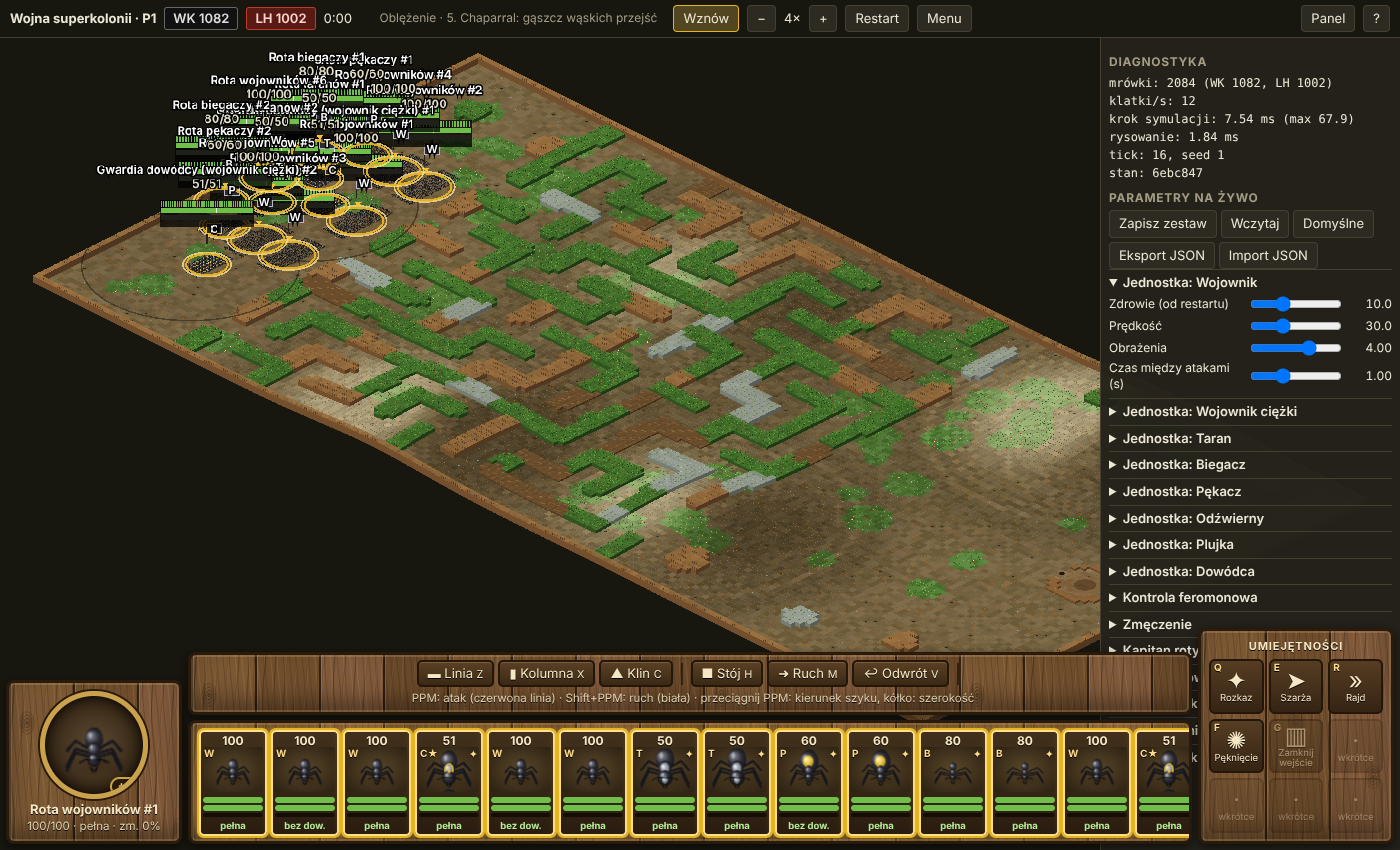
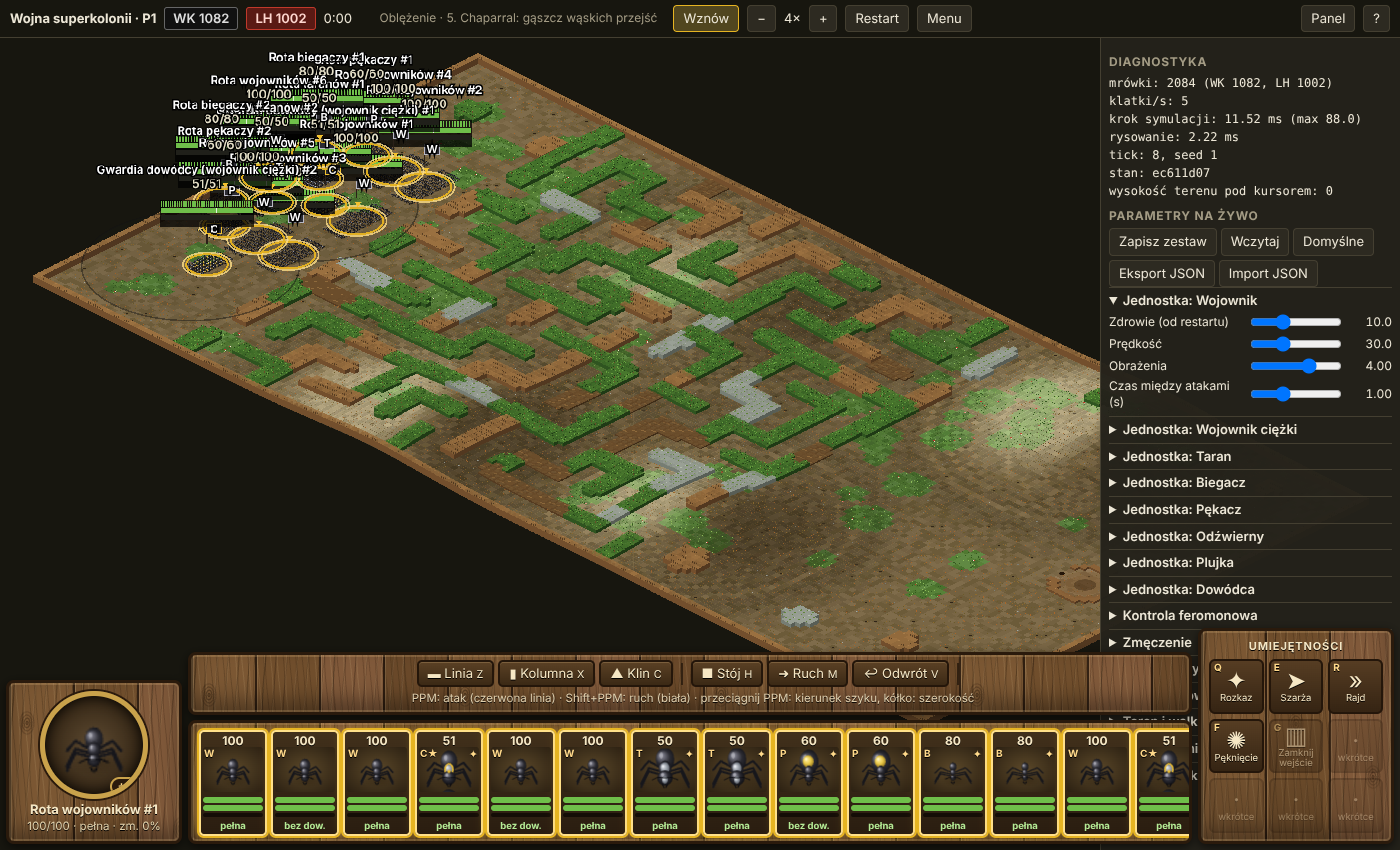
Etap 4: wysokość terenu pod kursorem w diagnostyce, zrzut szczytu, współrzędne wzgórz
Claude-Session: https://claude.ai/code/session_015bWVywXDmmptfndPZFffbj

Changed region(s): [[0.7986, 0.1835, 1.0, 0.7647], [0.8907, 0.1224, 0.9829, 0.1529], [0.86, 0.1529, 0.8907, 0.1835]]

diff --git a/prototypy/p1-bitwa.html b/prototypy/p1-bitwa.html
@@ -2238,6 +2238,7 @@ if (typeof module !== 'undefined') module.exports = Sim;
   view.addEventListener('pointermove', (e) => {
     const r = view.getBoundingClientRect();
     if (box.on) { box.x1 = e.clientX - r.left; box.y1 = e.clientY - r.top; }
+    if (S.sim && S.sim.hills) { const [wx, wy] = toWorld(e.clientX - r.left, e.clientY - r.top); S.cursorH = S.sim.heightAt(Math.max(0, wx), Math.max(0, wy)); }
     if (drag.on) { const sx = e.clientX - r.left, sy = e.clientY - r.top; if (Math.hypot(sx - drag.sx, sy - drag.sy) > 14) { const [wx, wy] = toWorld(sx, sy); drag.active = true; drag.face = Math.atan2(wy - drag.wy, wx - drag.wx); } }
     if (S.sim && S.started) { // najechanie na rotę pokazuje jej panel informacji
       const [cx, cy] = toContainer(e.clientX - r.left, e.clientY - r.top), sim = S.sim, rr = 12 / cam.z + 4; let best = -1, bd = rr * rr;
@@ -2662,7 +2663,7 @@ if (typeof module !== 'undefined') module.exports = Sim;
       const t1 = performance.now(); render(); S.renderMs = S.renderMs * 0.9 + (performance.now() - t1) * 0.1;
       hudT += dt; diagT += dt;
       if (hudT > 0.2) { hudT = 0; pumpEvents(); const a = S.sim.count_alive(); $('cntWK').textContent = 'WK ' + a[0]; $('cntLH').textContent = 'LH ' + a[1]; $('clock').textContent = fmt(S.sim.tick / 20); updateCards(); }
-      if (diagT > 0.5) { diagT = 0; const a = S.sim.count_alive(); $('diag').textContent = 'mrówki: ' + (a[0] + a[1]) + ' (WK ' + a[0] + ', LH ' + a[1] + ')\nklatki/s: ' + app.ticker.FPS.toFixed(0) + '\nkrok symulacji: ' + S.stepMs.toFixed(2) + ' ms (max ' + S.stepMax.toFixed(1) + ')\nrysowanie: ' + S.renderMs.toFixed(2) + ' ms\ntick: ' + S.sim.tick + ', seed ' + S.seed + '\nstan: ' + S.sim.hash(); }
+      if (diagT > 0.5) { diagT = 0; const a = S.sim.count_alive(); $('diag').textContent = 'mrówki: ' + (a[0] + a[1]) + ' (WK ' + a[0] + ', LH ' + a[1] + ')\nklatki/s: ' + app.ticker.FPS.toFixed(0) + '\nkrok symulacji: ' + S.stepMs.toFixed(2) + ' ms (max ' + S.stepMax.toFixed(1) + ')\nrysowanie: ' + S.renderMs.toFixed(2) + ' ms\ntick: ' + S.sim.tick + ', seed ' + S.seed + '\nstan: ' + S.sim.hash() + (S.sim.hills ? '\nwysokość terenu pod kursorem: ' + (S.cursorH || 0).toFixed(0) : ''); }
     }
   });
 

diff --git a/docs/wnioski-p1.md b/docs/wnioski-p1.md
@@ -102,6 +102,10 @@ Co jest (szczegóły i liczby w `projekt-bitwy.md`, decyzje 56-62, plan w `etap4
 - **Cios z tyłu** x1,5, **z boku** x1,25, z przodu x1 (zmierzone: x1,51 i x1,25).
 - Krok symulacji przy ok. 4500 mrówek na mapie ze wzgórzami i mgłą: mediana 19 ms, p99 55 ms (budżet 50 ms; czas piaskownicy).
 
+Gdzie szukać wzgórz (ziarno 1; szczyty wysokości x, y): mapa 2: (1464,168) 35, (888,312) 23, (1240,920) 24; mapa 4: (1976,184) 37, (1016,1208) 37, (1080,344) 23; mapa 5: (2328,184) 37, (1144,1304) 37; Przeprawa: (2312,328) 50, (1288,536) 25, (2328,1592) 26. Wzgórza są **subtelne wizualnie** (jaśniejsze i ciemniejsze plamy, wygięta ramka mapy, przesunięcie mrówek w pionie); zrzut `wyniki/p1-wzgorza-szczyt.png` to mapa 2 przy szczycie (1240,920). Na pasku diagnostyki jest „wysokość terenu pod kursorem”, co pozwala je znaleźć.
+
+Przeprawa, mrówki rot z kotwicą za potokiem, które nadal są przed nim (liczba/rot za potokiem; nie jest to ściśle „utknięcie”, liczy też spóźnionych i walczących), ziarna 1 i 2, funkcje etapu 4 włączone / wyłączone: t=80: 35 i 37 / 5 i 1; t=120: 107 i 81 / 57 i 55; t=160: 115 i 103 / 118 i 102. Po 160 s poziom jest taki sam, więc zator przy wodzie jest wcześniejszy niż etap 4, ale etap 4 (wzgórza, widoczność) opóźnia przeprawę o kilkadziesiąt sekund.
+
 Wpływ na bitwy AI przeciw AI (wykonane: `node tests/p1-etap4.js --seeds 4`, Bitwa na mapie 2, budżet Średni, `wyniki/p1-etap4-wplyw.json`): wygrane WK 2/4 przy wszystkim wyłączonym, 2/4 z samą elewacją, 1/4 z samą widocznością, 3/4 z samym kierunkiem ciosu, 2/4 ze wszystkim; różnice są w granicach szumu 4 ziaren. Strome tory kwasu (łuk wyższy od 22 jednostek) w ogóle nie wystąpiły w tych bitwach. Wniosek: mechaniki działają (testy jednostkowe), ale obecne AI nie wykorzystuje terenu (nie szuka wzgórz, nie ustawia plujek pod strzał, nie robi zasadzek), więc w całych bitwach ich wpływ jest niewidoczny. Do sprawdzenia w grze człowieka; uczenie AI korzystania z terenu jest na liście TODO.
 
 ## Błędy znalezione po drodze (każdy ma test)
